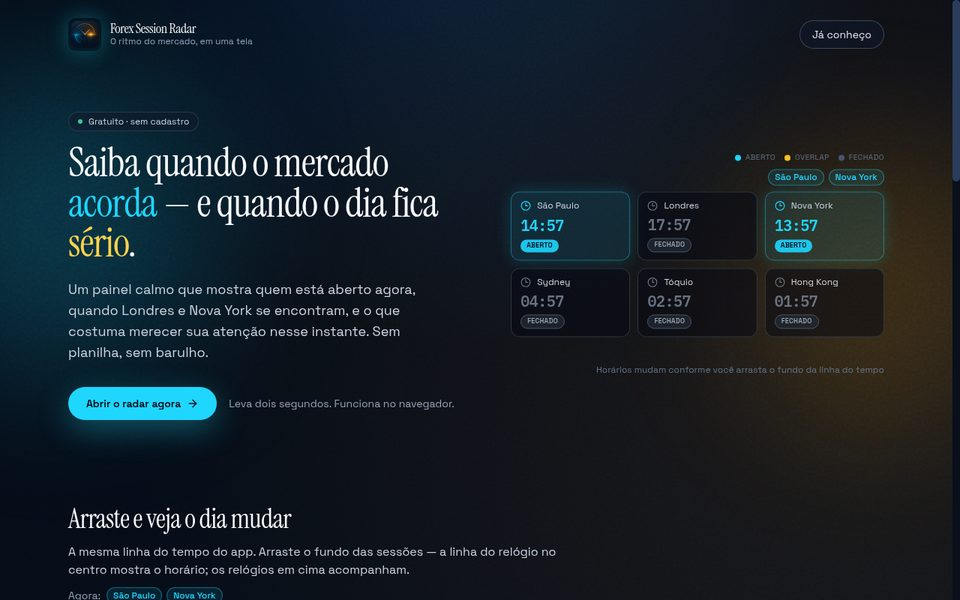
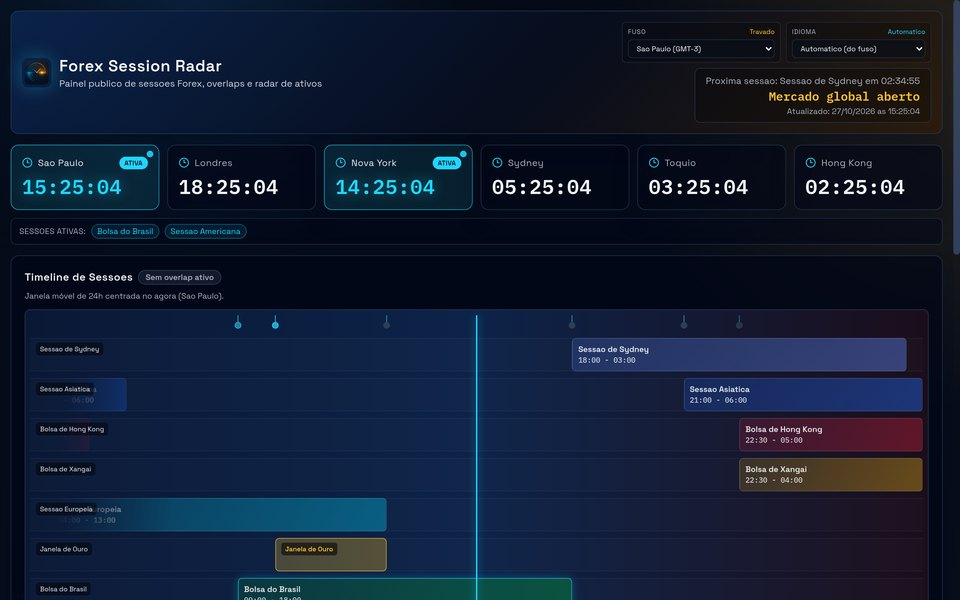
GIF da bio nova, painel do Forex Radar, GIF do ISO Builder e código aberto sem repetição

diff --git a/README.md b/README.md
@@ -67,7 +67,7 @@ São 38 projetos no git, a maioria privada. [Na bio](https://website.gvtserver.o
 </tr>
 <tr>
 <td width="50%" valign="top">
-  <a href="https://forexradar.gvtserver.online"><img src="assets/forexradar.jpg" alt="Site do Forex Session Radar"></a>
+  <a href="https://forexradar.gvtserver.online/app"><img src="assets/forexradar.jpg" alt="Painel do Forex Session Radar, com os relógios e a linha do tempo das sessões"></a>
   <h3><a href="https://forexradar.gvtserver.online">Forex Session Radar</a> <sub><code>open source</code></sub></h3>
   Quem está aberto no mundo, quando Londres e Nova York se encontram e o que merece atenção agora.
 </td>
@@ -92,15 +92,6 @@ Dez efeitos que reagem à música e mudam de cor com a capa do álbum. Também m
 
 ## 🧩 Código aberto
 
-<p align="center">
-  <a href="https://github.com/guianayans/ForexSessionRadar"><img src="https://github-readme-stats.vercel.app/api/pin/?username=guianayans&repo=ForexSessionRadar&theme=tokyonight&hide_border=true" alt="ForexSessionRadar"></a>
-  <a href="https://github.com/guianayans/pdfToolbox"><img src="https://github-readme-stats.vercel.app/api/pin/?username=guianayans&repo=pdfToolbox&theme=tokyonight&hide_border=true" alt="pdfToolbox"></a>
-  <a href="https://github.com/guianayans/ubuntuIsoBuilder"><img src="https://github-readme-stats.vercel.app/api/pin/?username=guianayans&repo=ubuntuIsoBuilder&theme=tokyonight&hide_border=true" alt="ubuntuIsoBuilder"></a>
-  <a href="https://github.com/guianayans/selfhost-website"><img src="https://github-readme-stats.vercel.app/api/pin/?username=guianayans&repo=selfhost-website&theme=tokyonight&hide_border=true" alt="selfhost-website"></a>
-  <a href="https://github.com/guianayans/FlashGames"><img src="https://github-readme-stats.vercel.app/api/pin/?username=guianayans&repo=FlashGames&theme=tokyonight&hide_border=true" alt="FlashGames"></a>
-  <a href="https://github.com/guianayans/tidalWaves"><img src="https://github-readme-stats.vercel.app/api/pin/?username=guianayans&repo=tidalWaves&theme=tokyonight&hide_border=true" alt="tidalWaves"></a>
-</p>
-
 | Projeto | O que faz |
 |---|---|
 | 💿 [**ubuntuIsoBuilder**](https://github.com/guianayans/ubuntuIsoBuilder) | Monta pendrives do Ubuntu Server que se instalam sozinhos, configurados por um painel web |
@@ -114,7 +105,8 @@ Dez efeitos que reagem à música e mudam de cor com a capa do álbum. Também m
 | 🌐 [**selfhost-website**](https://github.com/guianayans/selfhost-website) | Painel para publicar vários sites estáticos, com deploy por rsync e Docker |
 
 <p align="center">
-  <a href="https://github.com/guianayans/ubuntuIsoBuilder"><img src="assets/isobuilder.jpg" width="80%" alt="ubuntuIsoBuilder: configure no painel e grave no pendrive"></a>
+  <a href="https://iso.gvtserver.online"><img src="assets/isobuilder.gif" width="80%" alt="Site do ubuntuIsoBuilder: o pendrive entra no computador e a instalação acontece sozinha"></a>
+  <br><sub>o <a href="https://iso.gvtserver.online">ubuntuIsoBuilder</a> no ar, com a animação que acompanha a rolagem</sub>
 </p>
 
 ## 🛠 Ferramentas
@@ -126,8 +118,8 @@ Dez efeitos que reagem à música e mudam de cor com a capa do álbum. Também m
 ## 📊 No GitHub
 
 <p align="center">
-  <img src="https://github-readme-stats.vercel.app/api?username=guianayans&show_icons=true&count_private=true&include_all_commits=true&theme=tokyonight&hide_border=true&locale=pt-br" height="165" alt="Estatísticas do GitHub">
-  <img src="https://github-readme-stats.vercel.app/api/top-langs/?username=guianayans&layout=compact&theme=tokyonight&hide_border=true&locale=pt-br" height="165" alt="Linguagens mais usadas">
+  <img src="https://github-readme-stats.vercel.app/api?username=guianayans&show_icons=true&count_private=true&cache_seconds=86400&theme=tokyonight&hide_border=true&locale=pt-br" height="165" alt="Estatísticas do GitHub">
+  <img src="https://github-readme-stats.vercel.app/api/top-langs/?username=guianayans&cache_seconds=86400&layout=compact&theme=tokyonight&hide_border=true&locale=pt-br" height="165" alt="Linguagens mais usadas">
 </p>
 <p align="center">
   <img src="https://streak-stats.demolab.com?user=guianayans&theme=tokyonight&hide_border=true&locale=pt_BR" alt="Sequência de contribuições">
